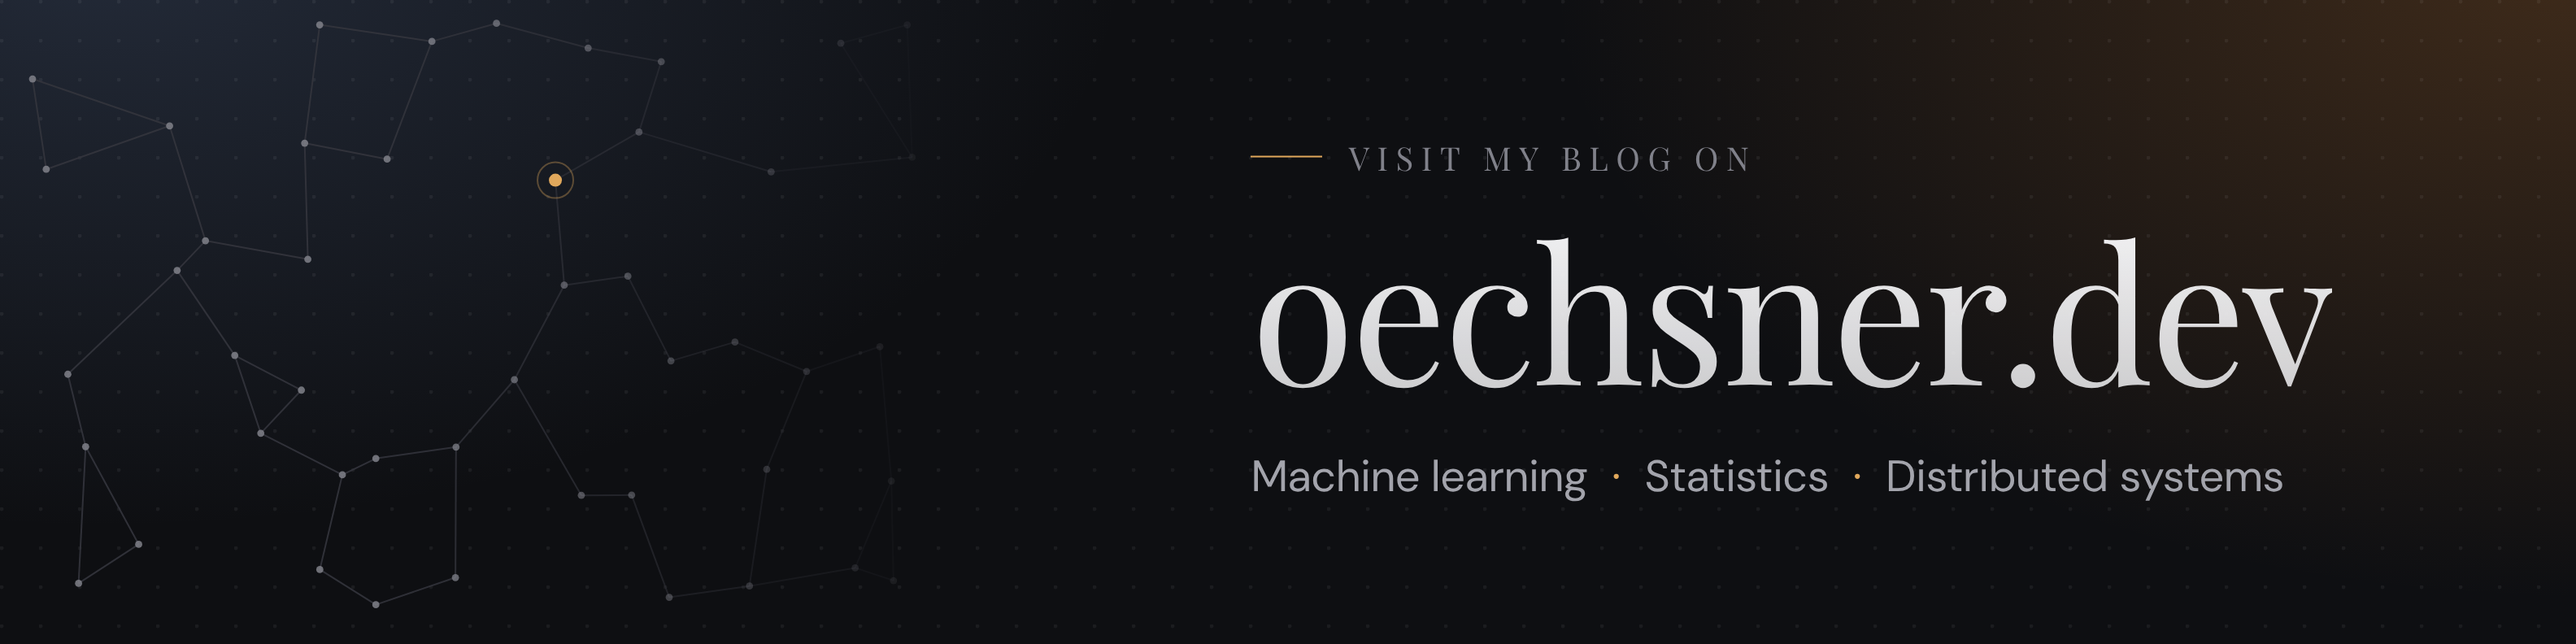
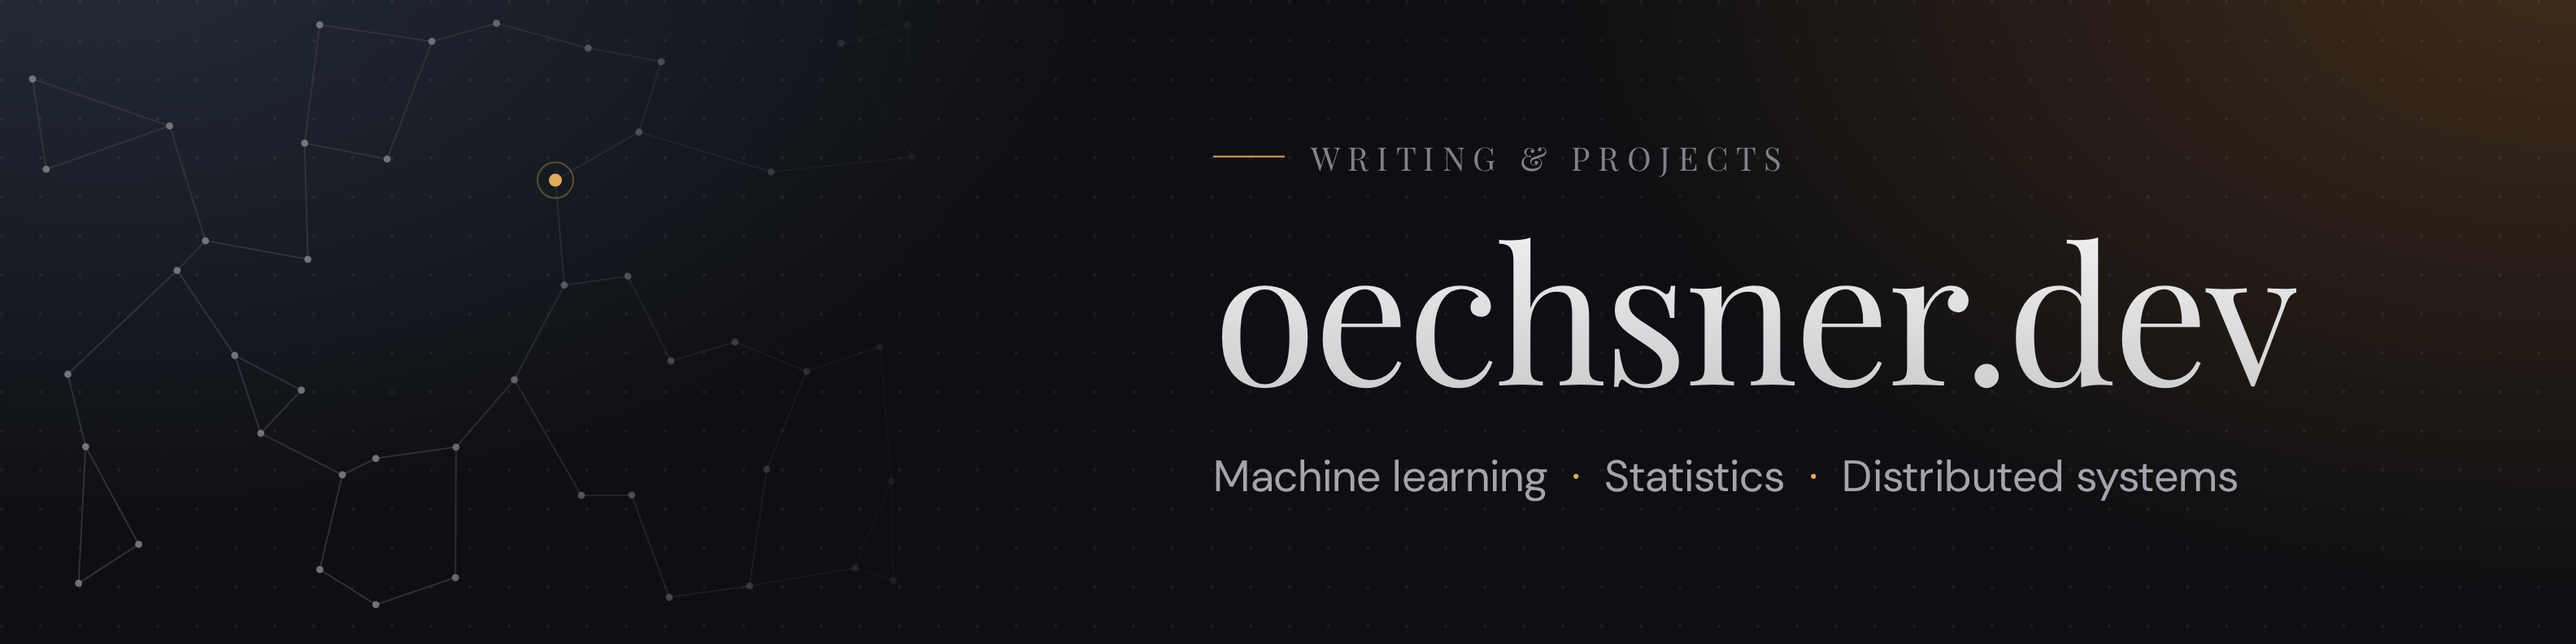
Revert "LinkedIn cover: label reads "Visit my Blog on""
This reverts commit 014e49183cf5a40adc29cf60549833a510236a91.

Changed region(s): [[0.4688, 0.3636, 0.9062, 0.6061], [0.4688, 0.697, 0.9062, 0.7879], [0.5, 0.2121, 0.6875, 0.2727]]

diff --git a/docs/linkedin-cover/banner.html b/docs/linkedin-cover/banner.html
@@ -24,7 +24,7 @@ h1{margin-top:18px;font-family:'Playfair Display',serif;font-weight:400;font-siz
  <div class="dots"></div>
  <svg class="net" width="1584" height="396" id="net"></svg>
  <div class="copy">
-  <div class="rail"><i></i>Visit my Blog on</div>
+  <div class="rail"><i></i>Writing &amp; projects</div>
   <h1>oechsner.dev</h1>
   <p class="sub">Machine learning<b>·</b>Statistics<b>·</b>Distributed systems</p>
   </div>
